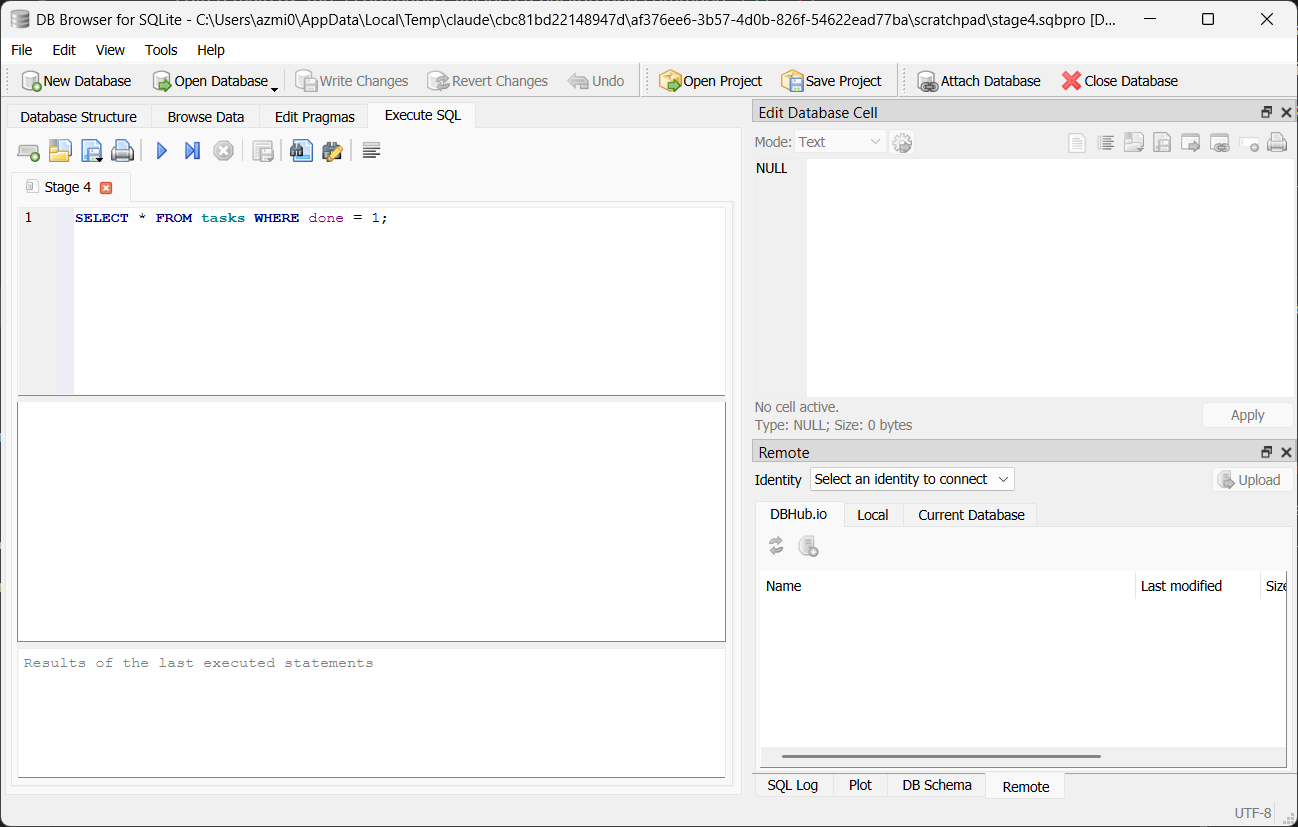
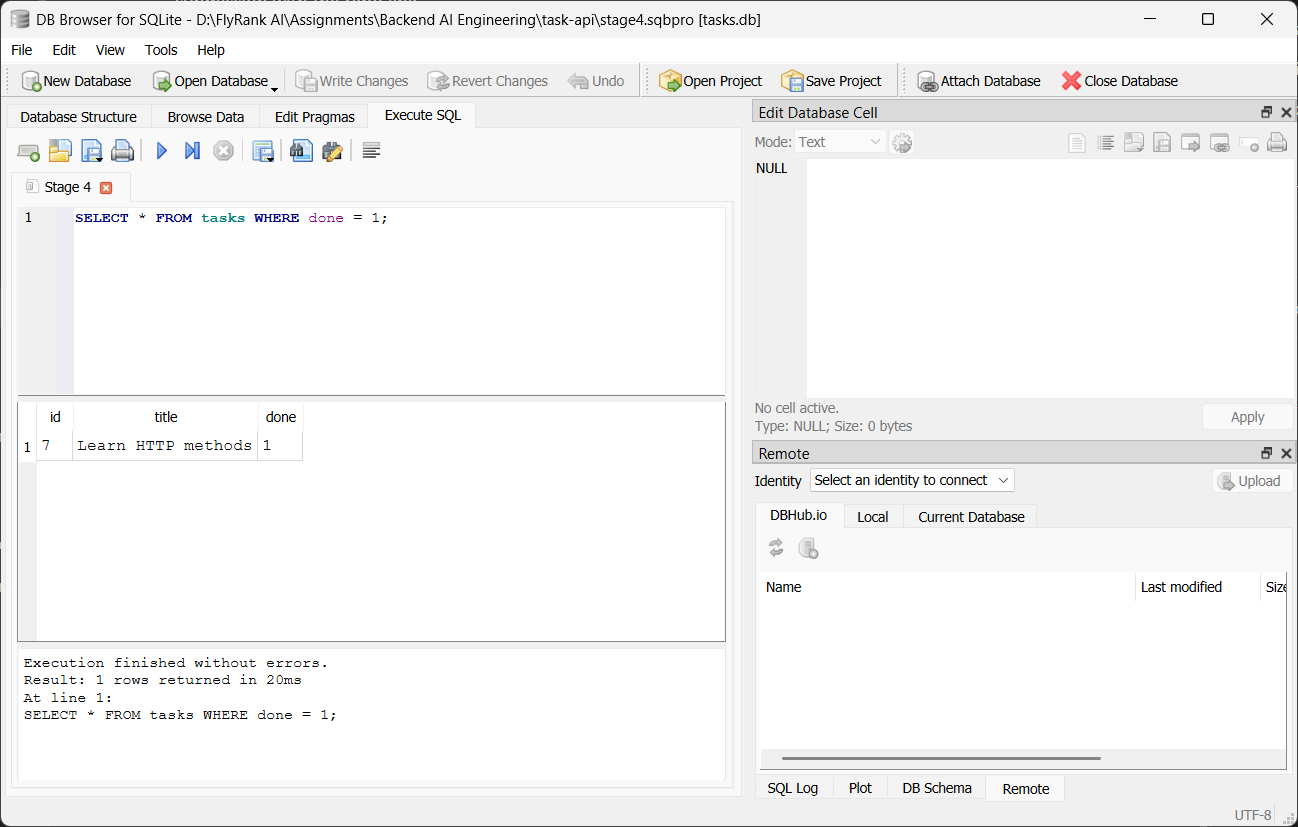
Docs: Execute SQL screenshot with query results

diff --git a/README.md b/README.md
@@ -256,9 +256,10 @@ in the code, never from the request.
 
 ![tasks.db open in DB Browser for SQLite, Browse Data tab, showing 5 tasks](docs/db-browser-browse-data.png)
 
-The **Execute SQL** tab with one of the Stage 4 queries:
+The **Execute SQL** tab running `SELECT * FROM tasks WHERE done = 1;` (taken later, after the table had been emptied and
+re-seeded, so only the re-seeded "Learn HTTP methods", now id 7, is done):
 
-![DB Browser for SQLite Execute SQL tab with SELECT * FROM tasks WHERE done = 1](docs/db-browser-execute-sql.png)
+![DB Browser for SQLite Execute SQL tab: SELECT * FROM tasks WHERE done = 1 returned 1 row](docs/db-browser-execute-sql.png)
 
 ### The Stage 4 queries
 
